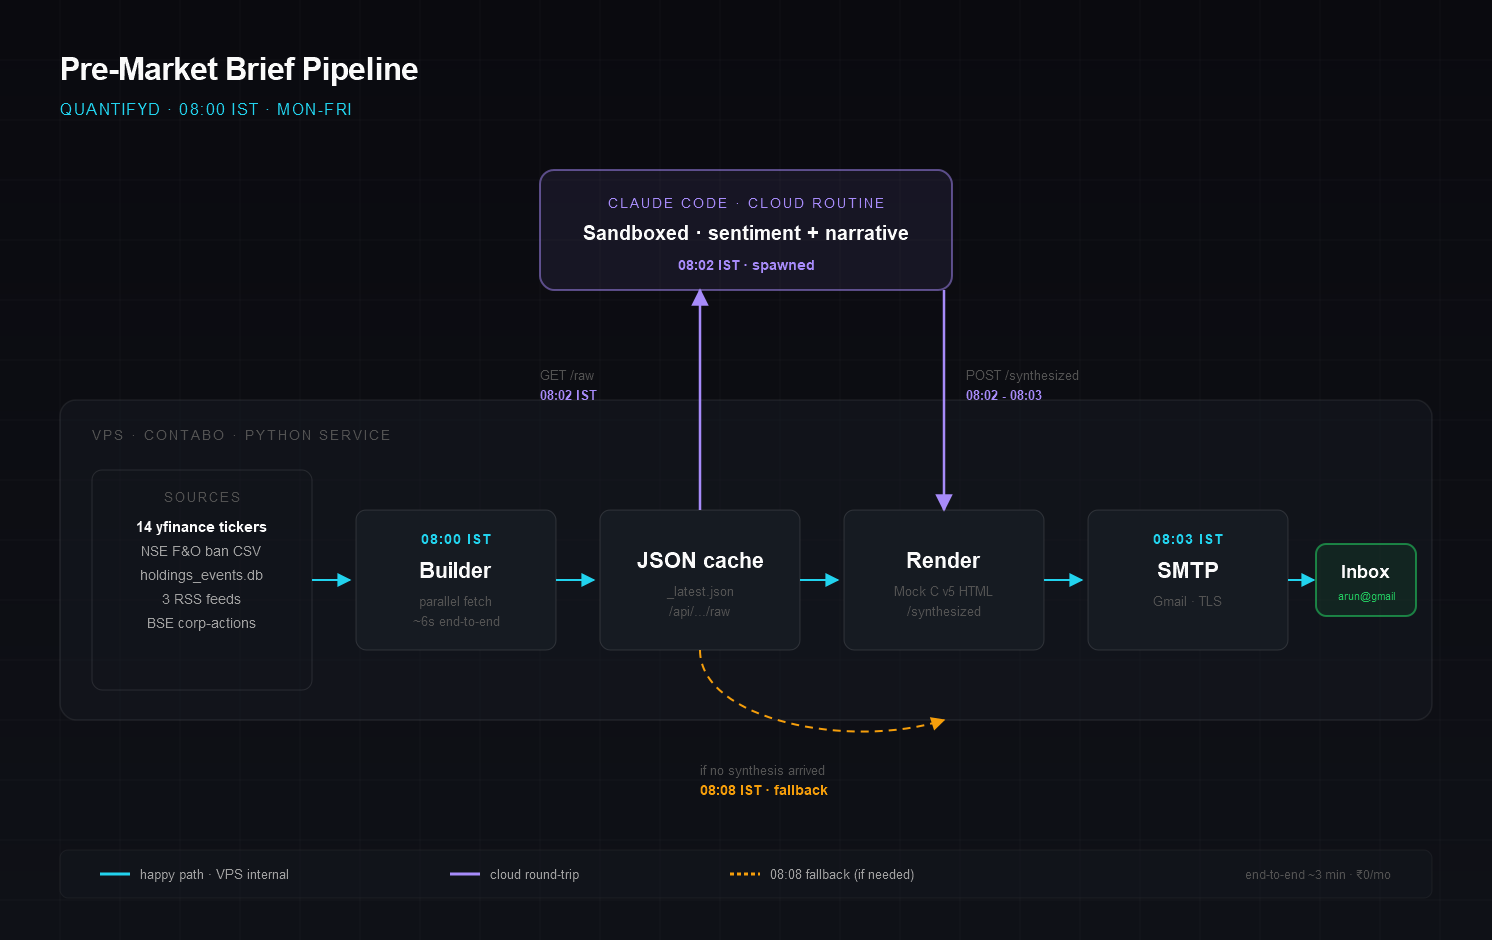
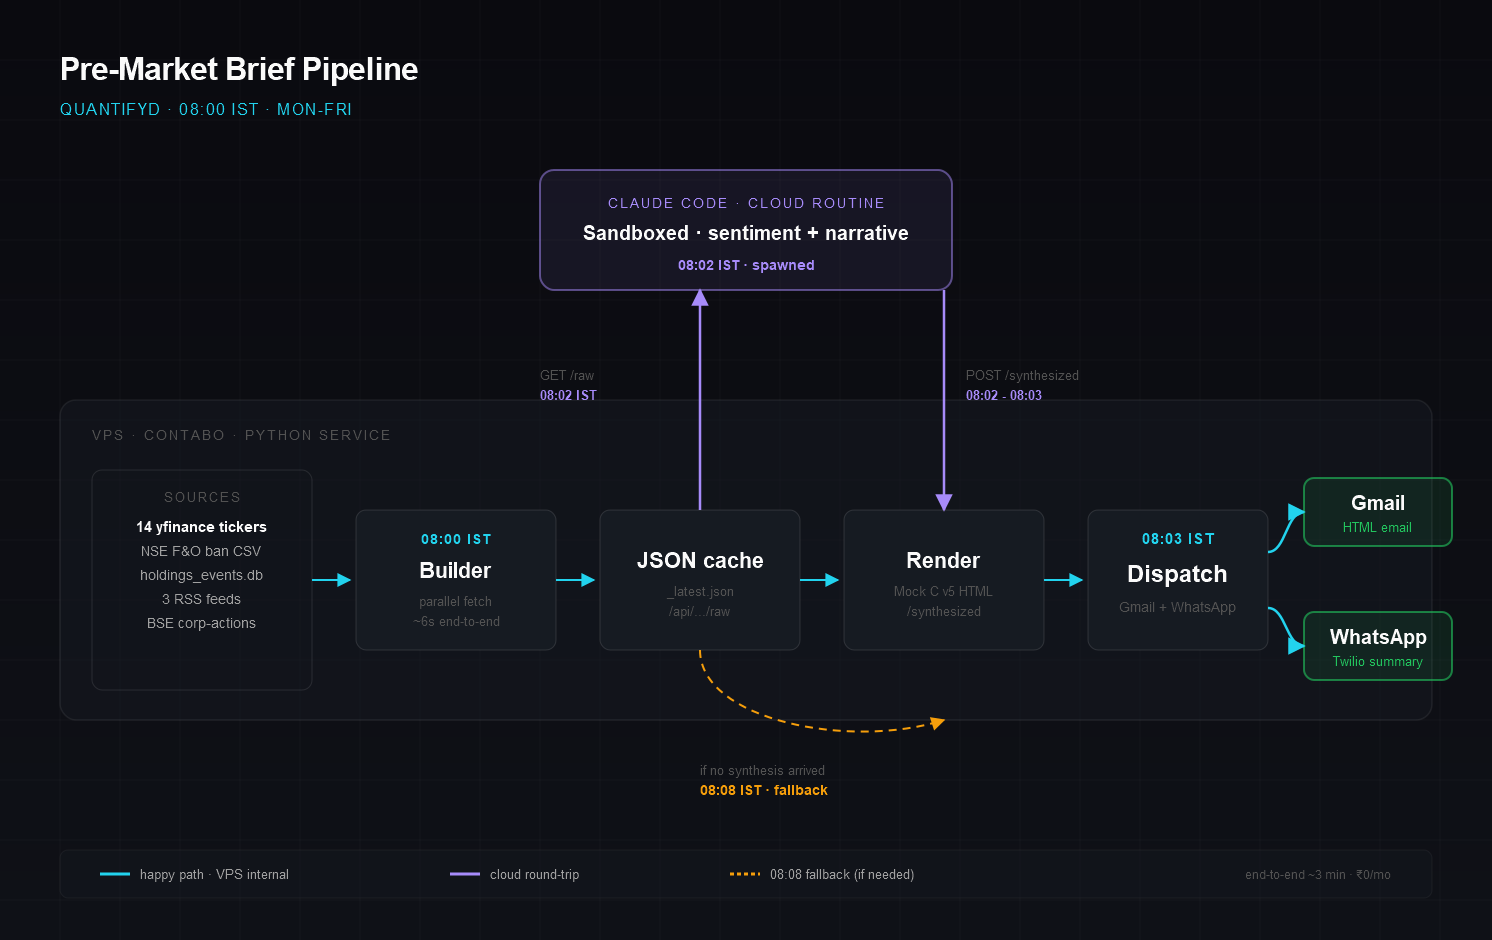
Pre-Market Brief: bulleted modal description + Gmail/WhatsApp dual-rail image
- FULL_DESCRIPTIONS entry adds bulleted HTML for the modal: 3 bullets
  covering Stage 1 (VPS builder), Stage 2 (Claude Code routine), and
  Delivery (Gmail + WhatsApp). Easier to scan than the prior paragraph.
- Updated workflow PNG/SVG to show the dispatch fork into Gmail (HTML
  email) and WhatsApp (Twilio summary). Bigger inner fonts.
- WhatsApp delivery is now actually wired in the upstream Quantifyd repo
  (services/premarket_brief.py) so the diagram matches reality.

Changed region(s): [[0.8633, 0.5245, 0.9558, 0.7096], [0.7399, 0.5553, 0.8324, 0.6479]]

diff --git a/js/project-loader.js b/js/project-loader.js
@@ -77,7 +77,8 @@
     littlereddot: '8 songs about love, resilience, and saying goodbye. A musical tribute to Singapore \u2014 from moonlit longing to unbroken flames. This is my heart, set to music.',
     klarity: 'Lightweight desktop task board with a 15-stage pipeline, ETag-based distributed sync, and multi-agent orchestration for AI-assisted developers. Built to bring clarity to complex workflows.',
     orbit: 'Mobile companion for Klarity \u2014 review, update, and triage tasks from your phone with zero-server architecture using GitHub as backend and SHA-based conflict resolution.',
-    'portfolio-optimization': 'Automated portfolio construction and maintenance \u2014 covered calls, rebalancing, and risk analytics to outperform market indexes.'
+    'portfolio-optimization': 'Automated portfolio construction and maintenance \u2014 covered calls, rebalancing, and risk analytics to outperform market indexes.',
+    'quantifyd-premarket-brief': 'A daily 08:00 IST intelligence brief for systematic trading. Two-stage pipeline with self-healing fallback. <ul style="margin:10px 0 0 0;padding-left:1.2em;line-height:1.7"><li><b>Stage 1 \u00b7 VPS builder (08:00 IST)</b> \u2014 Contabo Linux box pulls live data: yfinance, NSE F&amp;O ban CSV, holdings calendar, RSS feeds.</li><li><b>Stage 2 \u00b7 Claude Code routine (08:02 IST)</b> \u2014 sandboxed cloud agent reads the JSON, writes sentiment-tagged headlines + narrative one-liner, posts back.</li><li><b>Delivery (08:03 IST)</b> \u2014 VPS dispatches to <b>Gmail</b> (HTML email) and <b>WhatsApp</b> (Twilio summary). 08:08 fallback if cloud routine ever fails.</li></ul>'
   };
 
   // Tech stack overrides (portfolio may show different tech than JSON)
